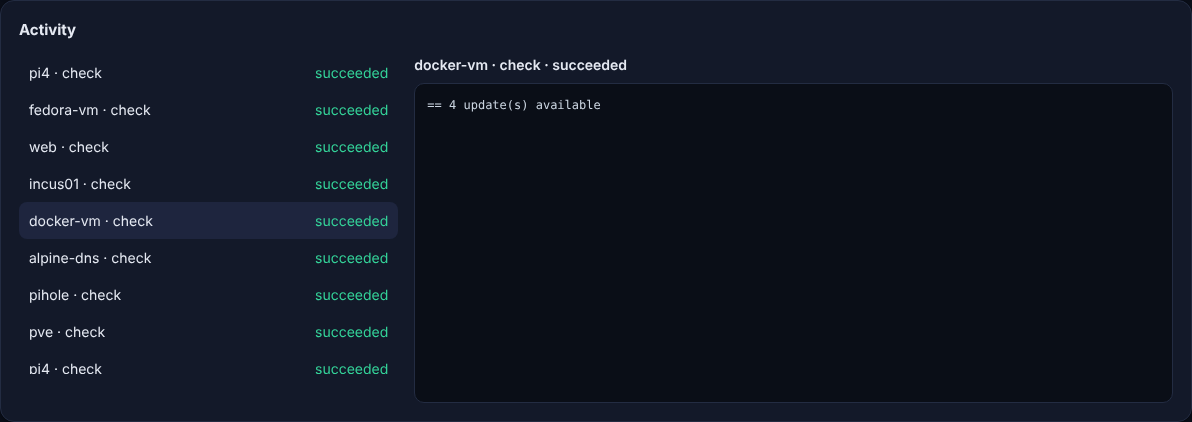
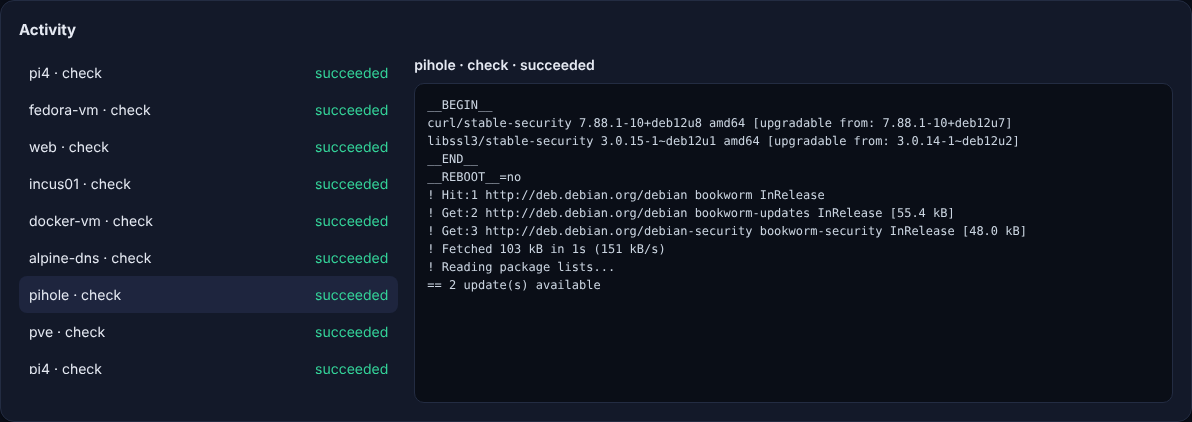
Demo: show realistic command output in Activity; retake screenshots
Claude-Session: https://claude.ai/code/session_019zpN51MizC22zZAADpGaU5

Changed region(s): [[0.3414, 0.2156, 0.8691, 0.7085], [0.3414, 0.1232, 0.5277, 0.1848]]

diff --git a/homelab/providers/demo.py b/homelab/providers/demo.py
@@ -22,6 +22,10 @@ _APT = [
 _APK = ["busybox-1.36.1-r31 x86_64 {busybox} (GPL-2.0-only) [upgradable from: busybox-1.36.1-r29]"]
 
 
+def _name(line: str) -> str:
+    return line.split("/")[0].split(" ")[0]
+
+
 class DemoSnapshots:
     def __init__(self, executor: DemoExecutor):
         self.executor = executor
@@ -50,6 +54,21 @@ class DemoExecutor:
         self.boot_id = uuid.uuid4().hex
         self.reboot_pending = any("kernel" in line for line in lines)
 
+    def _check_output(self, body: str) -> list[tuple[str, str]]:
+        """What the real check script prints, so the Activity log looks like a real run."""
+        out = [("stdout", "__BEGIN__")]
+        out += [("stdout", line) for line in body.splitlines()]
+        out += [("stdout", "__END__"), ("stdout", f"__REBOOT__={'yes' if self.reboot_pending else 'no'}")]
+        if self.pm == "apt":
+            out += [
+                ("stderr", "Hit:1 http://deb.debian.org/debian bookworm InRelease"),
+                ("stderr", "Get:2 http://deb.debian.org/debian bookworm-updates InRelease [55.4 kB]"),
+                ("stderr", "Get:3 http://deb.debian.org/debian-security bookworm-security InRelease [48.0 kB]"),
+                ("stderr", "Fetched 103 kB in 1s (151 kB/s)"),
+                ("stderr", "Reading package lists..."),
+            ]
+        return out
+
     async def run(self, script, on_line=None, timeout=3600) -> ExecResult:
         await asyncio.sleep(random.uniform(0.3, 1.2))
         head = f"__PM__={self.pm}\n__OS__={self.os_name}\n"
@@ -61,7 +80,14 @@ class DemoExecutor:
         reboot = "yes" if self.reboot_pending else "no"
         if script == CHECK_SCRIPT:
             body = "\n".join(self.lines)
+            if on_line:
+                for line in self._check_output(body):
+                    on_line(*line)
             return ExecResult(rc=0, stdout=f"{head}__BEGIN__\n{body}\n__END__\n__REBOOT__={reboot}\n")
+        if on_line and self.pm == "apt":
+            on_line("stdout", "Reading package lists...")
+            on_line("stdout", "Building dependency tree...")
+            on_line("stdout", f"The following packages will be upgraded: {' '.join(_name(x) for x in self.lines)}")
         for line in self.lines:
             name = line.split("/")[0].split(" ")[0]
             if on_line:
